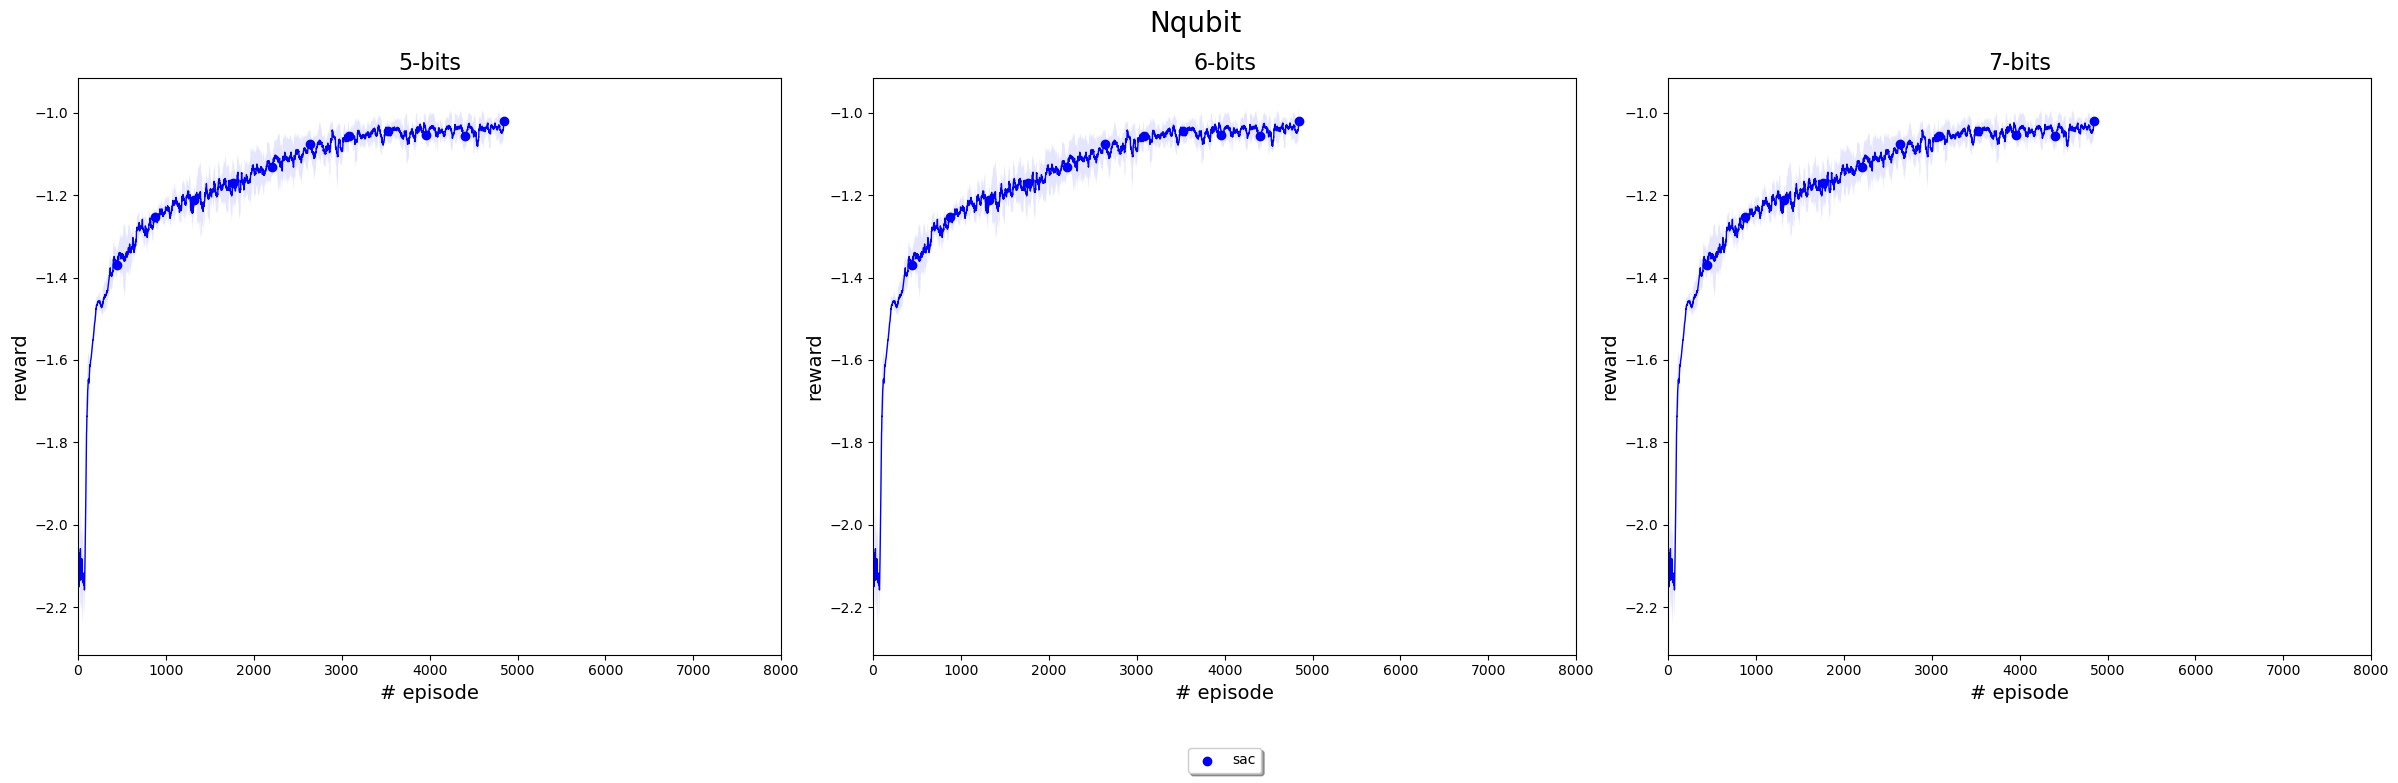
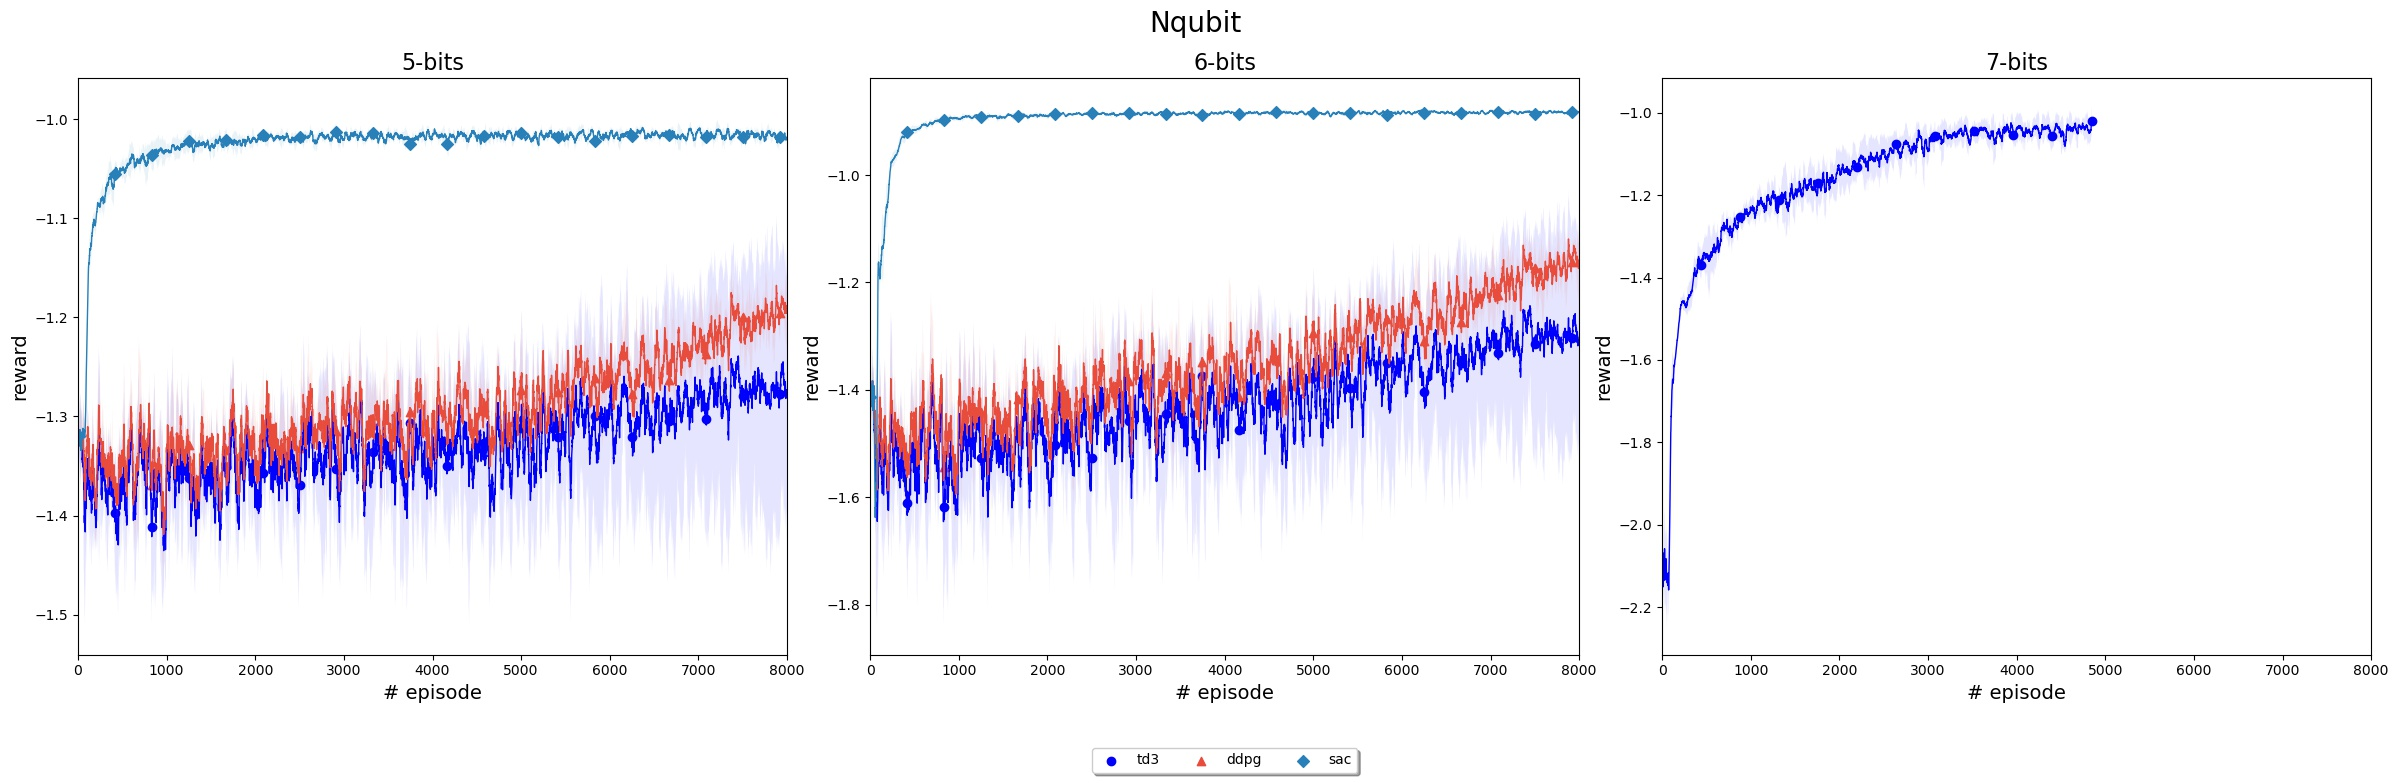
done

diff --git a/nqubit/plot/plot_tf_events.py b/nqubit/plot/plot_tf_events.py
@@ -9,10 +9,10 @@ dqn_path = './results/DQN_data/5/*'
 
 
 color_dictionary = {
-    0: "#0000FF", 1: "#E74C3C", 2: "#2980B9", 3: "#7FB3D5", 4: "#22DAF3",
+    0: "#1F618D", 1: "#F322CD", 2: "#2980B9", 3: "#7FB3D5", 4: "#22DAF3",
     5: "#5B2C6F", 6: "#800000", 7: "#008000", 8: "#008000", 9: "#E74C3C",
     10: "#D35400", 11: "#800000", 12: "#0E0F0F", 13: "#F1948A", 14: "#1C2833",
-    15: "#F322CD", 16: "#1F618D"
+    15: "#E74C3C", 16: "#0000FF"
 }
 marker_dictionary = {
     0:"o", 1:"^", 2:"D", 3:"x"
@@ -22,7 +22,7 @@ linestyle_dictionary = {
 }
 
 
-def plot_func(ax, method_dirs, color, label, marker, smooth_index=30, alpha=0.1, linewidth=1.0, scatter_space = 400):
+def plot_func(ax, method_dirs, color, label, marker, smooth_index=30, alpha=0.5, linewidth=1.0, scatter_space = 400):
     
     ##### extrat data from all seeds #####
     y_seeds = []
@@ -102,7 +102,7 @@ def main_plot():
     print('start plotting')
     # plot axes
     ax_count = 0
-    for nbit in [7, 7, 7]:                                   # key_part to change [5, 6, 7]
+    for nbit in [5, 6, 7]:                                   # key_part to change [5, 6, 7]
         print('plotting {0} axes'.format(ax_count + 1))
         data_path_n = '../results/latest_version{0}/*'.format(nbit)
         final_path, method_names = dir_process(data_path_n)
